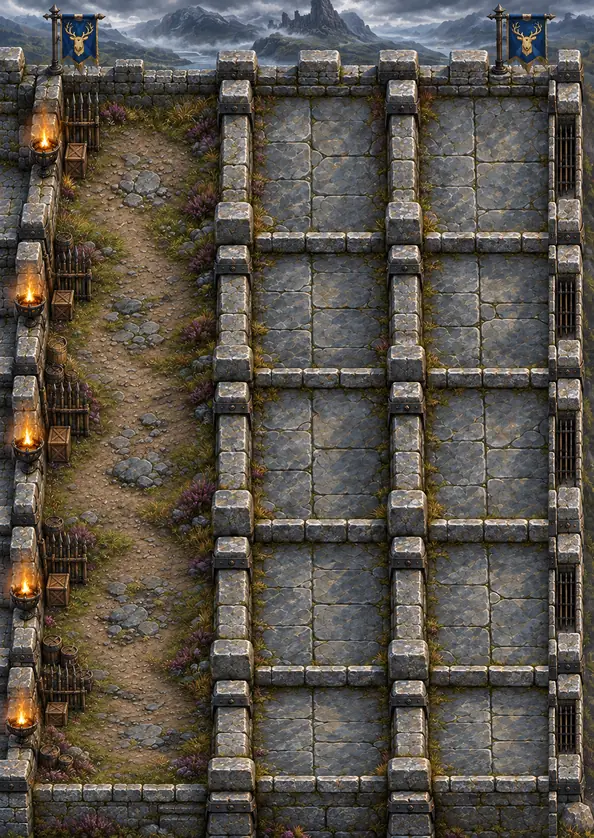
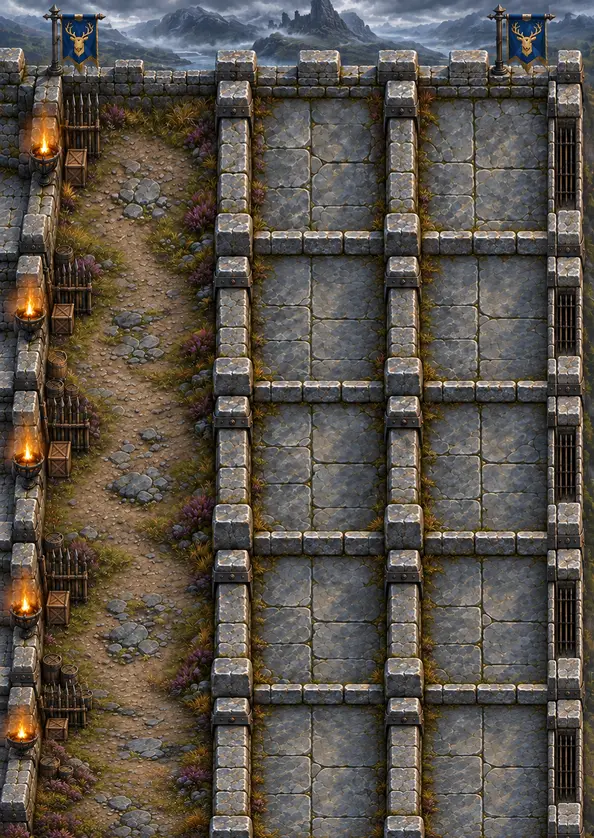
Align woods and highland five-gate walkway bands
Checks passed: tsc, vitest (158 tests), art:test:painted, art:test:links, art:test:regions.

diff --git a/src/art/registry.ts b/src/art/registry.ts
@@ -46,7 +46,7 @@ export interface TextureSpec {
 // The query is intentional. Painted files are stable public URLs rather than
 // Vite-hashed imports, so a version here guarantees that a deployed art pass
 // cannot be hidden behind an older service-worker entry.
-export const PAINTED_MANIFEST_URL = 'assets/painted/manifest.json?v=regional-environment-5';
+export const PAINTED_MANIFEST_URL = 'assets/painted/manifest.json?v=regional-environment-6';
 
 function specs(drawn: ReadonlySet<string> = new Set()): TextureSpec[] {
   const out: TextureSpec[] = [];
